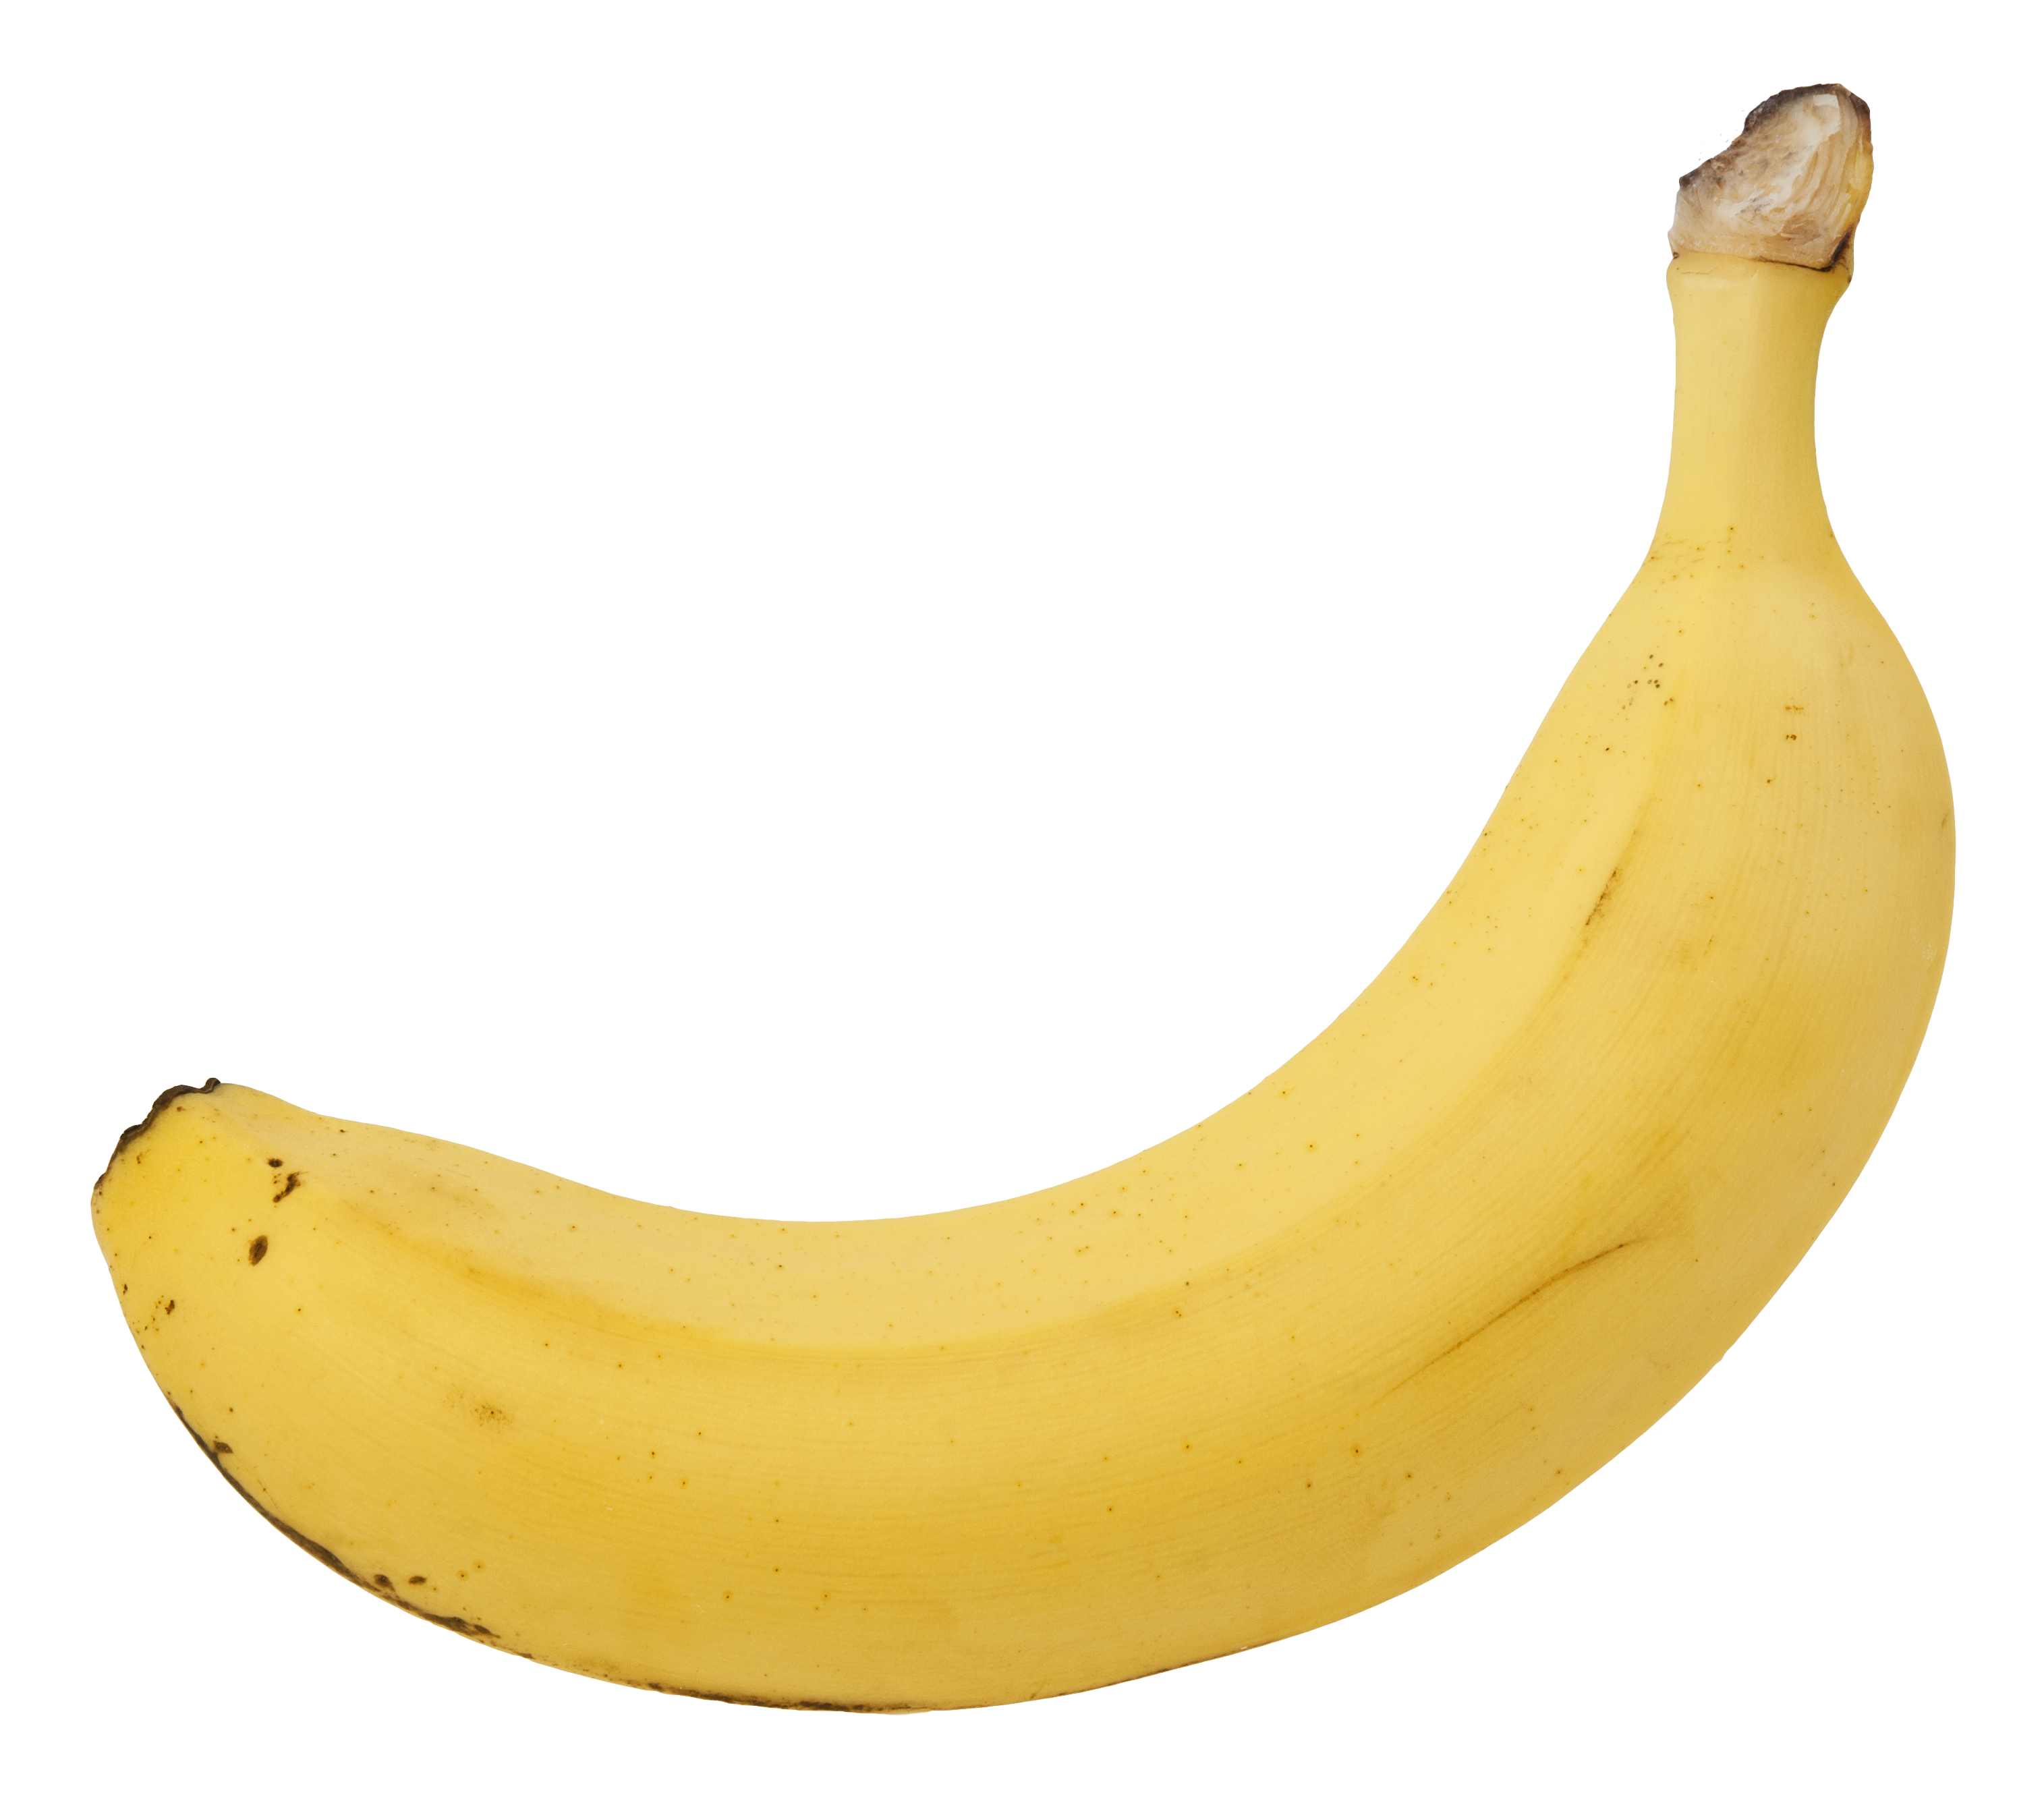
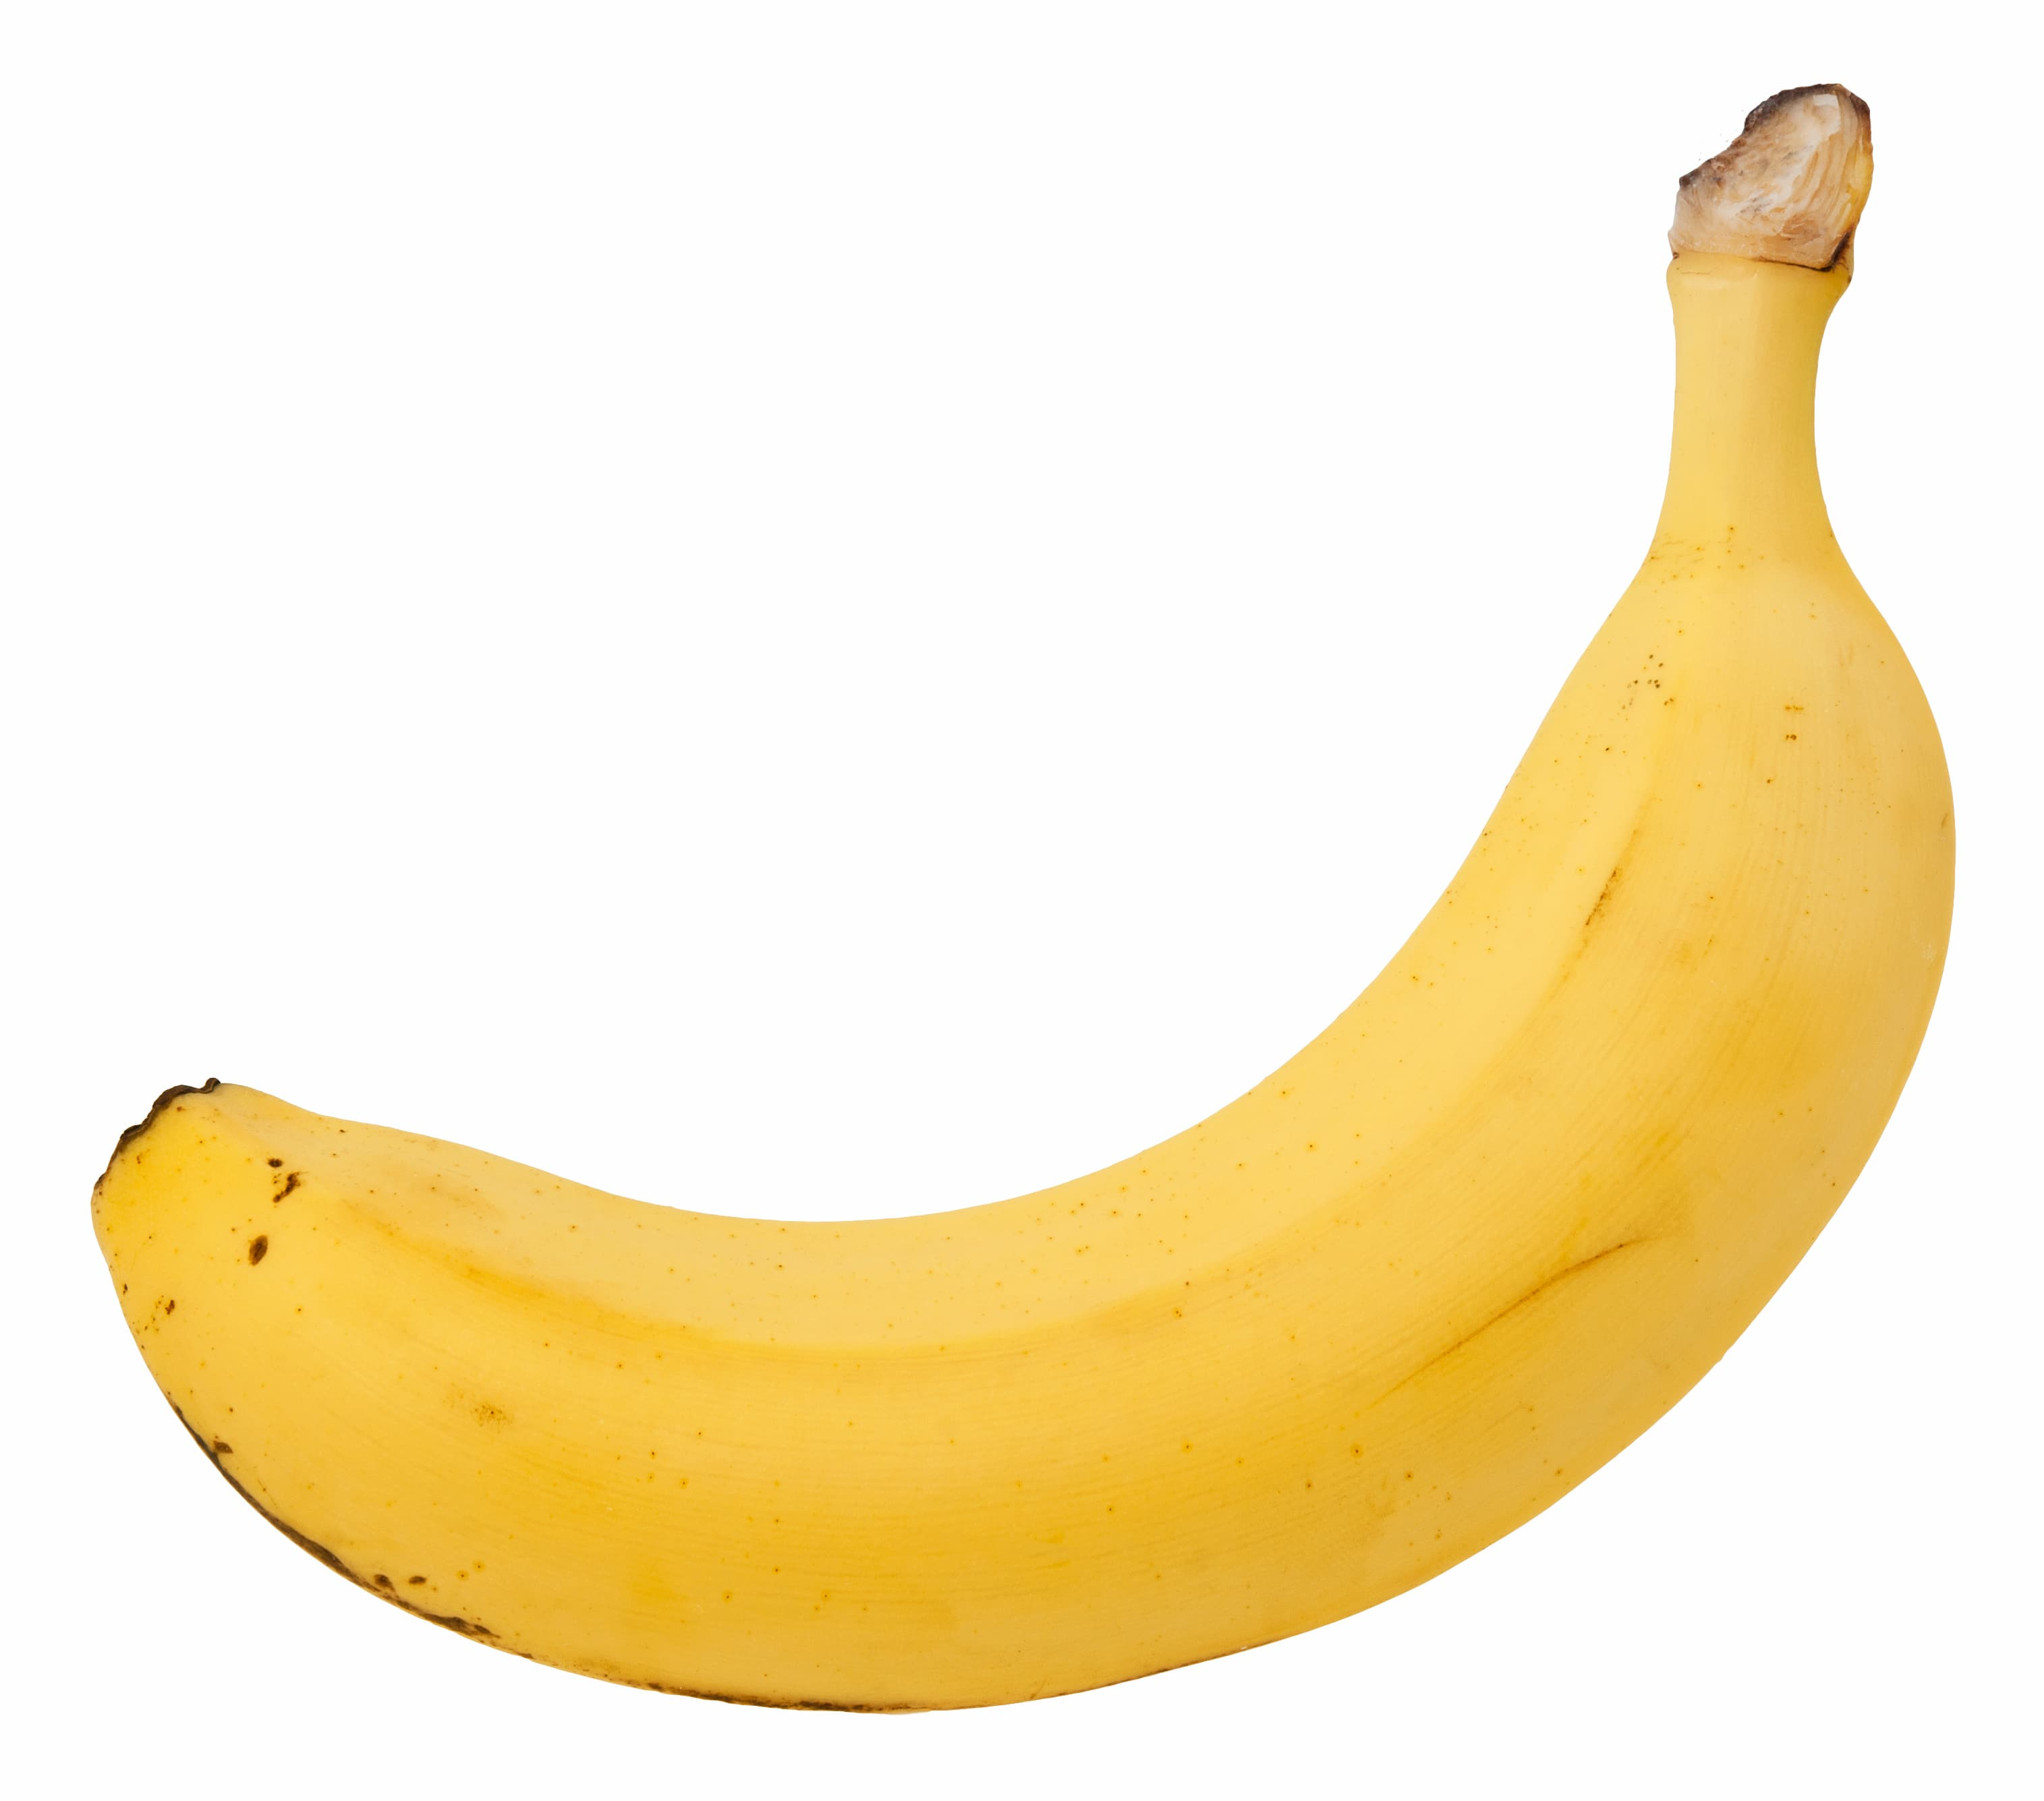
feat: improve fruit recognition workflow and sample image collection

diff --git a/src/ui/fruit_window.py b/src/ui/fruit_window.py
@@ -1,6 +1,9 @@
 import tkinter as tk
 from tkinter import ttk, messagebox, filedialog
-from PIL import Image, ImageTk
+from PIL import Image, ImageTk, ImageGrab
+import os
+import win32gui
+import ctypes
 
 import cv2
 import threading
@@ -88,6 +91,13 @@ class FruitWindow:
         self.create_sidebar()
         self.create_cart_panel()
 
+        self.screenshot_counter = 1
+
+        os.makedirs(
+            "screenshots/portfolio",
+            exist_ok=True
+        )
+
         if self.serial_service.connection:
 
             self.serial_thread = threading.Thread(
@@ -100,6 +110,11 @@ class FruitWindow:
         self.root.protocol(
             "WM_DELETE_WINDOW",
             self.on_closing
+        )
+
+        self.root.bind(
+            "<Control-Shift-S>",
+            self.save_portfolio_screenshot
         )
 
     def create_video_panel(self):
@@ -570,13 +585,33 @@ class FruitWindow:
 
     def update_demo_weight(self, *args):
 
-        gramos = int(
-            self.demo_weight.get()
-        )
+        gramos = int(self.demo_weight.get())
 
         self.demo_weight_label.config(
             text=f"Peso simulado: {gramos} g"
         )
+
+        # Solo actualizar si ya existe una fruta detectada
+        if self.last_detected_fruit:
+
+            weight_kg = gramos / 1000
+
+            price_kg = FRUIT_PRICES.get(
+                self.last_detected_fruit,
+                20.0
+            )
+
+            subtotal = weight_kg * price_kg
+
+            self.last_detected_weight = weight_kg
+            self.last_detected_price = subtotal
+
+            self.update_details(
+                self.last_detected_fruit,
+                weight_kg,
+                price_kg,
+                subtotal
+            )
 
     def load_image(self):
 
@@ -816,6 +851,44 @@ class FruitWindow:
         self.total_var.set(
             f"TOTAL: ${total:.2f}"
         )
+
+    def save_portfolio_screenshot(self, event=None):
+        """
+        Guarda una captura exacta de la ventana principal.
+        Se activa con Ctrl + Shift + S.
+        """
+
+        self.root.update()
+
+        hwnd = self.root.winfo_id()
+
+        left, top, right, bottom = win32gui.GetWindowRect(hwnd)
+
+        scale = ctypes.windll.shcore.GetScaleFactorForDevice(0) / 100
+
+        TITLE_BAR = int(28 * scale)
+        LEFT_OFFSET = int(2 * scale)
+        RIGHT_OFFSET = int(1 * scale)
+
+        left = int(left * scale) + LEFT_OFFSET
+        top = int(top * scale) - TITLE_BAR
+        right = int(right * scale) - RIGHT_OFFSET
+        bottom = int(bottom * scale)
+
+        screenshot = ImageGrab.grab(
+            bbox=(left, top, right, bottom)
+        )
+
+        file_name = (
+            f"screenshots/portfolio/"
+            f"fruit_{self.screenshot_counter:02d}.png"
+        )
+
+        screenshot.save(file_name)
+
+        self.screenshot_counter += 1
+
+        print(f"Screenshot guardada: {file_name}")
 
     def on_closing(self):
 

diff --git a/src/config/class_names.py b/src/config/class_names.py
@@ -1,37 +1,59 @@
+"""
+IMPORTANTE
+
+El orden de estas clases coincide exactamente con
+el orden utilizado durante el entrenamiento del modelo
+fruits360_mobilenetv2_finetuned_alternative.h5.
+
+NO modificar el orden.
+
+Dataset de referencia:
+Fruit and Vegetable Image Recognition (Kaggle)
+"""
+
+EXPECTED_CLASSES = 36
+
 CLASS_NAMES = [
     "apple",
     "banana",
-    "orange",
-    "lemon",
-    "mango",
-    "grapes",
-    "pineapple",
-    "watermelon",
-    "pear",
-    "paprika",
-    "tomato",
-    "chilli pepper",
-    "bell pepper",
-    "cucumber",
-    "lettuce",
-    "spinach",
-    "potato",
-    "sweetpotato",
-    "carrot",
     "beetroot",
-    "radish",
-    "onion",
+    "bell pepper",
+    "cabbage",
+    "capsicum",
+    "carrot",
+    "cauliflower",
+    "chilli pepper",
+    "corn",
+    "cucumber",
+    "eggplant",
     "garlic",
     "ginger",
-    "corn",
-    "sweetcorn",
-    "peas",
-    "soy beans",
-    "capsicum",
-    "eggplant",
-    "cauliflower",
-    "turnip",
-    "pomegranate",
+    "grapes",
+    "jalepeno",
     "kiwi",
-    "jalepeno"
+    "lemon",
+    "lettuce",
+    "mango",
+    "onion",
+    "orange",
+    "paprika",
+    "pear",
+    "peas",
+    "pineapple",
+    "pomegranate",
+    "potato",
+    "radish",
+    "soy beans",
+    "spinach",
+    "sweetcorn",
+    "sweetpotato",
+    "tomato",
+    "turnip",
+    "watermelon"
 ]
+
+if len(CLASS_NAMES) != EXPECTED_CLASSES:
+    raise ValueError(
+        f"CLASS_NAMES debe contener exactamente "
+        f"{EXPECTED_CLASSES} clases."
+    )

diff --git a/src/services/tensorflow_service.py b/src/services/tensorflow_service.py
@@ -4,13 +4,25 @@ import numpy as np
 import tensorflow as tf
 
 from config.settings import MODEL_PATH
-from config.class_names import CLASS_NAMES
+from config.class_names import (
+    CLASS_NAMES,
+    EXPECTED_CLASSES
+)
 
 
 class TensorflowService:
 
     def __init__(self):
         self.model = tf.keras.models.load_model(MODEL_PATH)
+
+        model_classes = self.model.output_shape[-1]
+
+        if model_classes != EXPECTED_CLASSES:
+            raise ValueError(
+                f"El modelo espera {model_classes} clases "
+                f"pero CLASS_NAMES tiene "
+                f"{EXPECTED_CLASSES}."
+            )
 
     def preprocess(self, frame):
 
@@ -47,5 +59,8 @@ class TensorflowService:
         )
 
         index = np.argmax(predictions)
+
+        if index >= len(CLASS_NAMES):
+            return "unknown"
 
         return CLASS_NAMES[index]